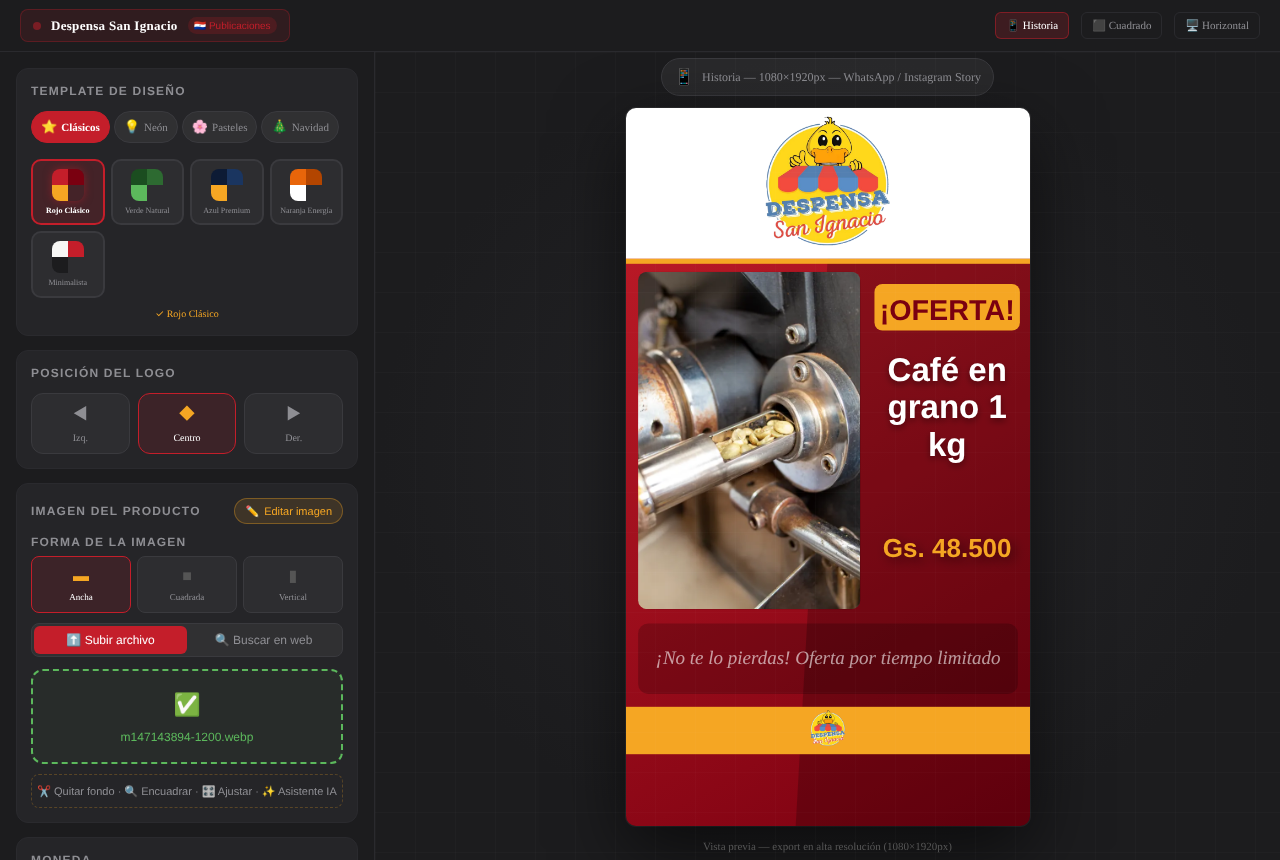
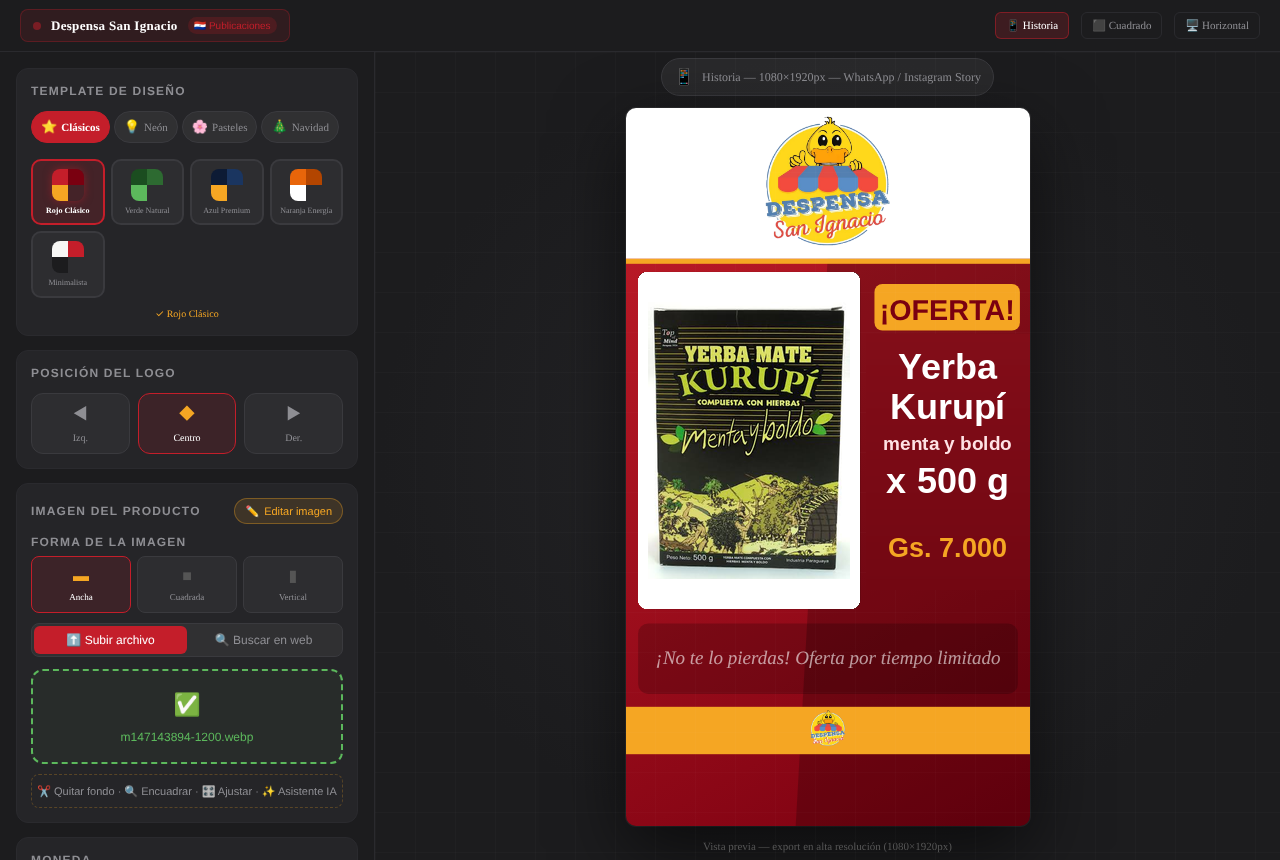
Caso Despensa: el flyer muestra yerba Kurupí menta y boldo x 500 g
Claude-Session: https://claude.ai/code/session_01NzXaUMqjwGMTiezSXc8C2L

Changed region(s): [[0.5, 0.3023, 0.8125, 0.7256]]

diff --git a/public/index.html b/public/index.html
@@ -248,7 +248,7 @@
           <p class="stack">Next.js · TypeScript · Firebase · WhatsApp API</p>
         </article>
         <article class="card card--open span-6" id="caso-despensa">
-          <div class="case__frame"><img src="img/despensa.png" alt="El generador de flyers de Despensa San Ignacio con una oferta de café en grano a 48.500 guaraníes" data-en-alt="Despensa San Ignacio's flyer generator showing a coffee-beans offer at 48,500 guaraníes" data-pt-alt="O gerador de panfletos da Despensa San Ignacio com uma oferta de café em grão a 48.500 guaranis" loading="lazy"></div>
+          <div class="case__frame"><img src="img/despensa.png" alt="El generador de flyers de Despensa San Ignacio con una oferta de yerba Kurupí menta y boldo de 500 g a 7.000 guaraníes" data-en-alt="Despensa San Ignacio's flyer generator showing an offer on 500 g of Kurupí mint and boldo yerba mate at 7,000 guaraníes" data-pt-alt="O gerador de panfletos da Despensa San Ignacio com uma oferta de erva-mate Kurupí menta e boldo de 500 g a 7.000 guaranis" loading="lazy"></div>
           <p class="ticket" data-en="Case 002 · Retail · Paraguay" data-pt="Caso 002 · Comércio · Paraguai">Caso 002 · Comercio · Paraguay</p>
           <h3 data-en="Sale-flyer generator for Despensa San Ignacio" data-pt="Gerador de peças de ofertas para a Despensa San Ignacio">Generador de piezas de ofertas para Despensa San Ignacio</h3>
           <p class="case__problem" data-en="The problem: every daily offer was a flyer made by hand, with no designer, always in a rush." data-pt="O problema: cada oferta do dia era um panfleto feito à mão, sem designer, sempre na correria.">El problema: cada oferta del día era un flyer hecho a mano, sin diseñador, siempre a las corridas.</p>
